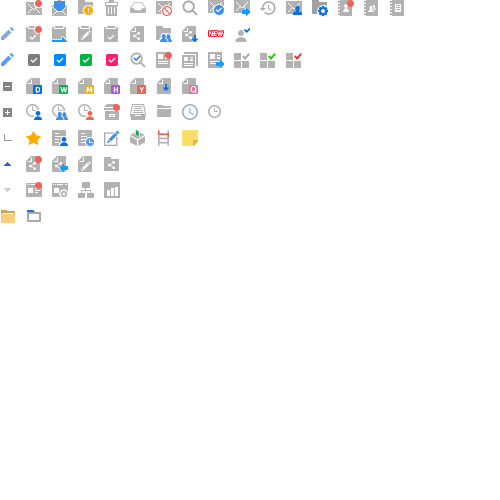
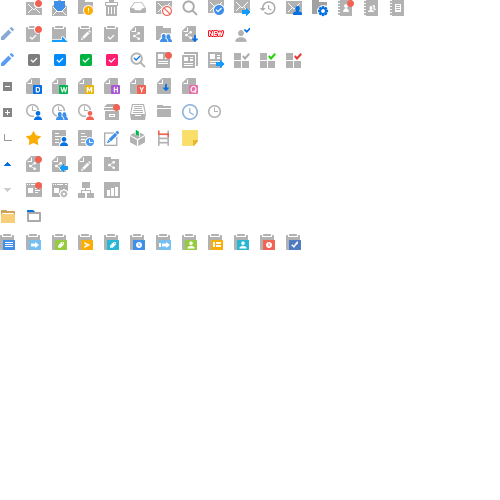
메일 수신자선택 스크립트 오류 / 전자결재 UI 수정

Changed region(s): [[0.0, 0.45, 0.6, 0.51]]

diff --git a/src/main/webapp/css/default_jp.css b/src/main/webapp/css/default_jp.css
@@ -2423,6 +2423,18 @@ div#txtContent {margin-left:5px;margin-right:5px;word-wrap:break-word;font-size:
 .tree_appr_turn{ background-position:-130px -26px; width:16px; height:16px; display:inline-block; margin: 8px 0px 0px 0px; cursor:pointer;} /* tree 회람완료문서 */
 .tree_appr_department{ background-position:-156px -26px; width:16px; height:16px; display:inline-block; margin: 8px 0px 0px 0px; cursor:pointer;} /* tree 부서수신문서 */
 .tree_appr_receive{ background-position:-182px -26px; width:16px; height:16px; display:inline-block; margin: 8px 0px 0px 0px; cursor:pointer;} /* tree 회람수신문서 */
+.tree_appr_record1{background-position: 0px -234px;width:16px;height:16px;display:inline-block;margin: 8px 0px 0px 0px;cursor:pointer;} /* tree 기록물등록대장 */
+.tree_appr_record2{background-position: -26px -234px;width:16px;height:16px;display:inline-block;margin: 8px 0px 0px 0px;cursor:pointer;} /* tree 기록물배부대장 */
+.tree_appr_record3{background-position: -52px -234px;width:16px;height:16px;display:inline-block;margin: 8px 0px 0px 0px;cursor:pointer;} /* tree 기록물접수목록 */
+.tree_appr_record4{background-position: -78px -234px;width:16px;height:16px;display:inline-block;margin: 8px 0px 0px 0px;cursor:pointer;} /* tree 기록물발송목록 */
+.tree_appr_record5{background-position: -104px -234px;width:16px;height:16px;display:inline-block;margin: 8px 0px 0px 0px;cursor:pointer;} /* tree 기록물철등록부 */
+.tree_appr_record6{background-position: -130px -234px;width:16px;height:16px;display:inline-block;margin: 8px 0px 0px 0px;cursor:pointer;} /* tree 종료연기신청 */
+.tree_appr_record7{background-position: -156px -234px;width:16px;height:16px;display:inline-block;margin: 8px 0px 0px 0px;cursor:pointer;} /* tree 정리대상목록 */
+.tree_appr_record8{background-position: -182px -234px;width:16px;height:16px;display:inline-block;margin: 8px 0px 0px 0px;cursor:pointer;} /* tree 인계목록 */
+.tree_appr_record9{background-position: -208px -234px;width:16px;height:16px;display:inline-block;margin: 8px 0px 0px 0px;cursor:pointer;} /* tree 단위업무관리 */
+.tree_appr_record10{background-position: -234px -234px;width:16px;height:16px;display:inline-block;margin: 8px 0px 0px 0px;cursor:pointer;} /* tree 기록물철인계 */
+.tree_appr_record11{background-position: -260px -234px;width:16px;height:16px;display:inline-block;margin: 8px 0px 0px 0px;cursor:pointer;} /* tree 종료연기승인 */
+.tree_appr_record12{background-position: -286px -234px;width:16px;height:16px;display:inline-block;margin: 8px 0px 0px 0px;cursor:pointer;} /* tree 편철확정 */
 
 .tree_pims_all{ background-position:-26px -52px; width:16px; height:16px; display:inline-block; margin: 8px 0px 0px 0px; cursor:pointer;} /* tree 모든일정 */
 .tree_pims_individual{ background-position:-52px -52px; width:16px; height:16px; display:inline-block; margin: 8px 0px 0px 0px; cursor:pointer;} /* tree 개인일정 */

diff --git a/src/main/webapp/css/default_kr.css b/src/main/webapp/css/default_kr.css
@@ -2423,6 +2423,18 @@ div#txtContent {margin-left:5px;margin-right:5px;word-wrap:break-word;font-size:
 .tree_appr_turn{ background-position:-130px -26px; width:16px; height:16px; display:inline-block; margin: 8px 0px 0px 0px; cursor:pointer;} /* tree 회람완료문서 */
 .tree_appr_department{ background-position:-156px -26px; width:16px; height:16px; display:inline-block; margin: 8px 0px 0px 0px; cursor:pointer;} /* tree 부서수신문서 */
 .tree_appr_receive{ background-position:-182px -26px; width:16px; height:16px; display:inline-block; margin: 8px 0px 0px 0px; cursor:pointer;} /* tree 회람수신문서 */
+.tree_appr_record1{background-position: 0px -234px;width:16px;height:16px;display:inline-block;margin: 8px 0px 0px 0px;cursor:pointer;} /* tree 기록물등록대장 */
+.tree_appr_record2{background-position: -26px -234px;width:16px;height:16px;display:inline-block;margin: 8px 0px 0px 0px;cursor:pointer;} /* tree 기록물배부대장 */
+.tree_appr_record3{background-position: -52px -234px;width:16px;height:16px;display:inline-block;margin: 8px 0px 0px 0px;cursor:pointer;} /* tree 기록물접수목록 */
+.tree_appr_record4{background-position: -78px -234px;width:16px;height:16px;display:inline-block;margin: 8px 0px 0px 0px;cursor:pointer;} /* tree 기록물발송목록 */
+.tree_appr_record5{background-position: -104px -234px;width:16px;height:16px;display:inline-block;margin: 8px 0px 0px 0px;cursor:pointer;} /* tree 기록물철등록부 */
+.tree_appr_record6{background-position: -130px -234px;width:16px;height:16px;display:inline-block;margin: 8px 0px 0px 0px;cursor:pointer;} /* tree 종료연기신청 */
+.tree_appr_record7{background-position: -156px -234px;width:16px;height:16px;display:inline-block;margin: 8px 0px 0px 0px;cursor:pointer;} /* tree 정리대상목록 */
+.tree_appr_record8{background-position: -182px -234px;width:16px;height:16px;display:inline-block;margin: 8px 0px 0px 0px;cursor:pointer;} /* tree 인계목록 */
+.tree_appr_record9{background-position: -208px -234px;width:16px;height:16px;display:inline-block;margin: 8px 0px 0px 0px;cursor:pointer;} /* tree 단위업무관리 */
+.tree_appr_record10{background-position: -234px -234px;width:16px;height:16px;display:inline-block;margin: 8px 0px 0px 0px;cursor:pointer;} /* tree 기록물철인계 */
+.tree_appr_record11{background-position: -260px -234px;width:16px;height:16px;display:inline-block;margin: 8px 0px 0px 0px;cursor:pointer;} /* tree 종료연기승인 */
+.tree_appr_record12{background-position: -286px -234px;width:16px;height:16px;display:inline-block;margin: 8px 0px 0px 0px;cursor:pointer;} /* tree 편철확정 */
 
 .tree_pims_all{ background-position:-26px -52px; width:16px; height:16px; display:inline-block; margin: 8px 0px 0px 0px; cursor:pointer;} /* tree 모든일정 */
 .tree_pims_individual{ background-position:-52px -52px; width:16px; height:16px; display:inline-block; margin: 8px 0px 0px 0px; cursor:pointer;} /* tree 개인일정 */